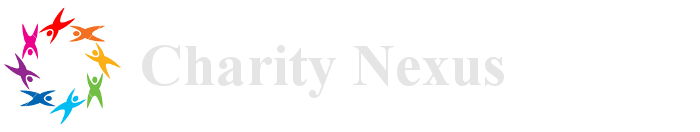
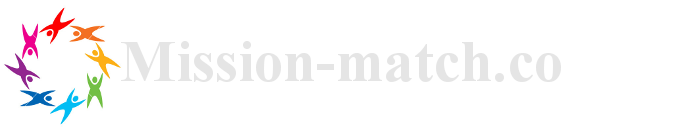
website changes

Changed region(s): [[0.18, 0.303, 0.81, 0.6667], [0.33, 0.303, 0.36, 0.3636], [0.42, 0.697, 0.45, 0.7273]]

diff --git a/Website/index.html b/Website/index.html
@@ -3,7 +3,7 @@
 <html>
 <head>
     <meta http-equiv="Content-Type" content="text/html" charset="UTF-8">
-    <title>Popoto Search</title>
+    <title>Mission-match.co Graph Visualization</title>
 	<meta name='viewport' content='initial-scale=1,maximum-scale=1,user-scalable=no' />
 <script src='https://api.mapbox.com/mapbox.js/v2.2.3/mapbox.js'></script>
 <script src="https://cdnjs.cloudflare.com/ajax/libs/Chart.js/1.0.2/Chart.min.js"></script>
